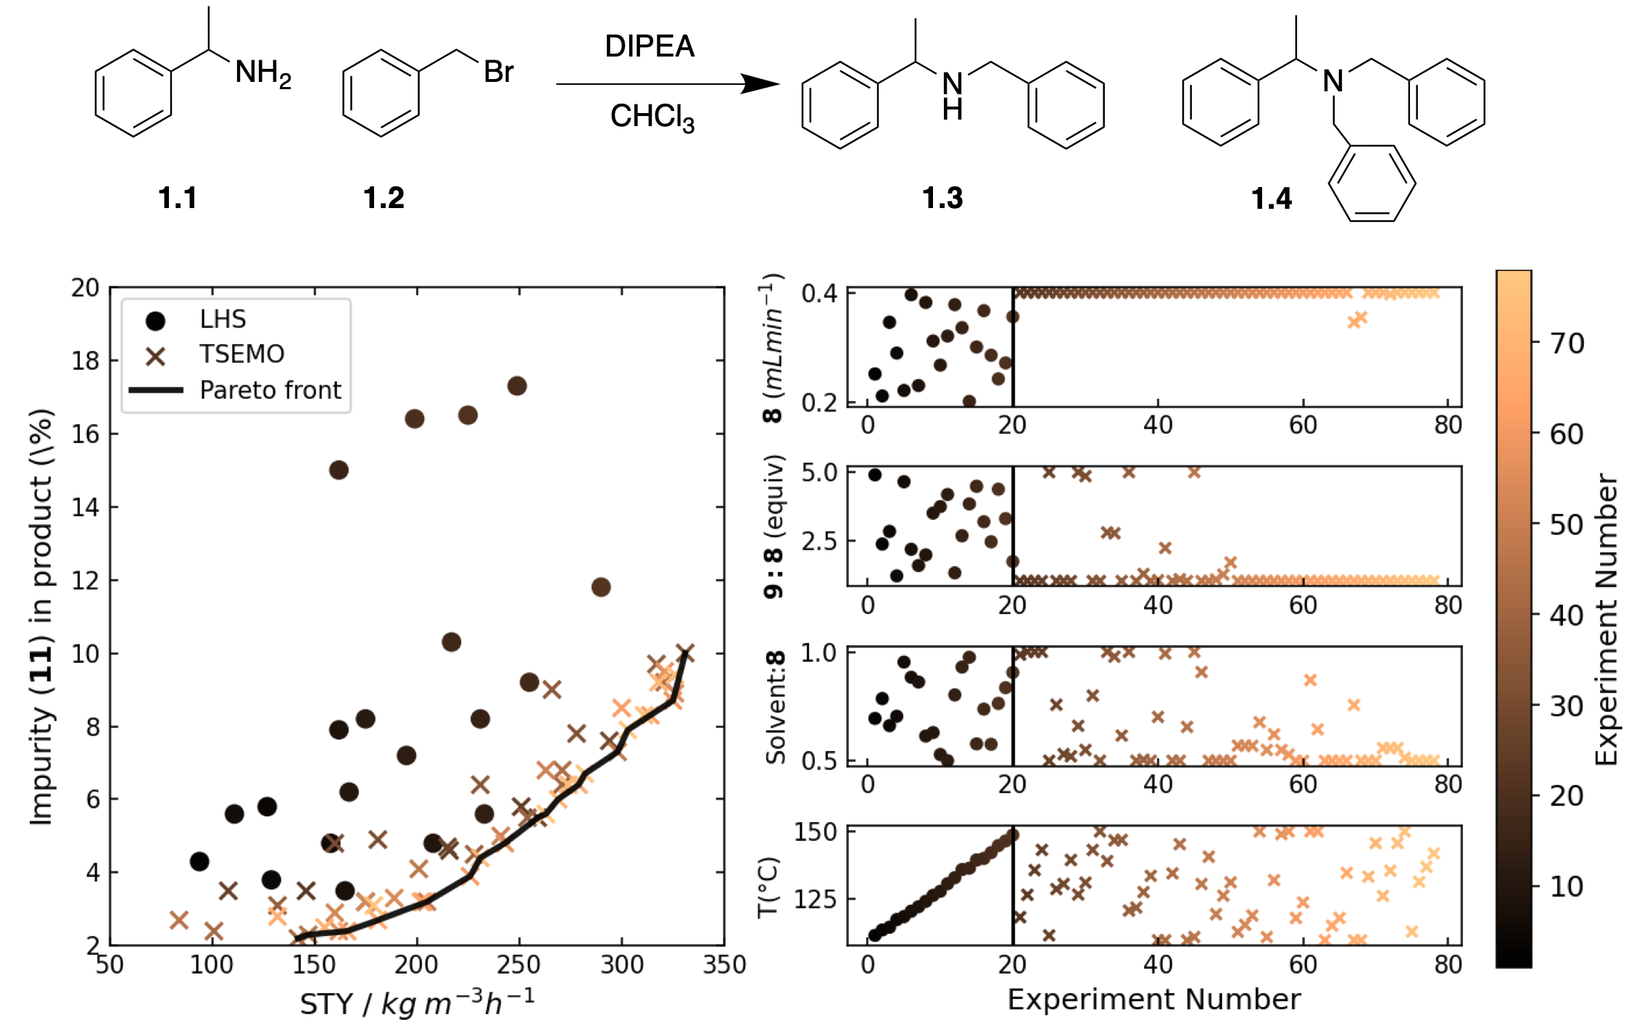
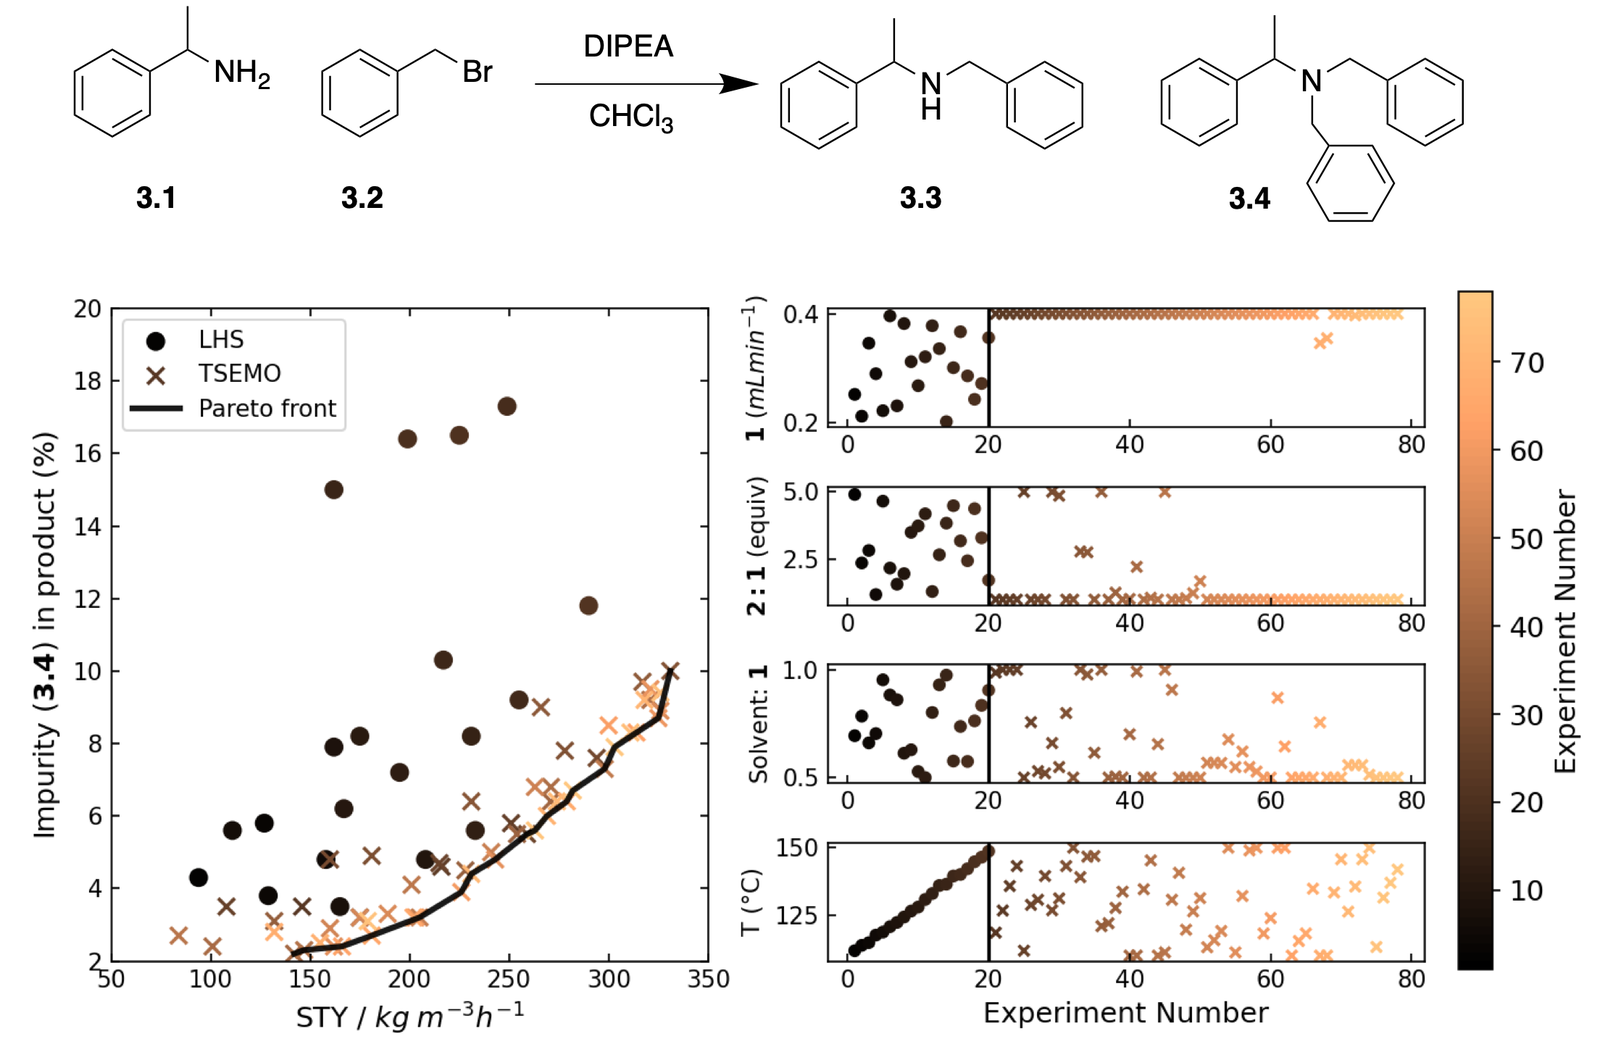
Updates from Overleaf

diff --git a/Chapters/Chapter06.tex b/Chapters/Chapter06.tex
@@ -141,8 +141,8 @@ where $\Delta P_i =\Delta P_{strip}$ for stages below feed stage and $\Delta P_i
         \hline
          $x_i$ &  Liquid composition of methanol on stage $i$ \\
          $y_i$ & Vapor composition of water on stage $i$\\
-         $L_i$ & Liquid flow on stage $i$  \\
-         $V_i$  & Vapor flow on stage $i$ \\
+         $L_i$ & Liquid flow leaving stage $i$  \\
+         $V_i$  & Vapor flow leaving stage $i$ \\
          $T_i$  & Temperature on stage $i$ \\
          $T_i$  & Holdup on stage $i$ \\
          \hline
@@ -169,21 +169,17 @@ Note that the feed stage and the stage above the feed stage are treated separate
 
 where $q_i$ is the liquid fraction of the feed stream.
 
-The material balance for the sump:
+The reboiler and sump are lumped into into one stage. 
 
 \begin{equation}
-    \frac{dn_1}{dt} = L_2 - L_1 + V_0 - V_1
+    \frac{dn_1}{dt} =  L_1 - V_0 - B
 \end{equation}
 
-I assume that the holdup in the thermosyphon reboiler is constant over time, and that all liquid flowing into the reboiler is vaporized. Therefore, the liquid flow into the reboiler is equal to the vapor flow out of the reboiler $V_0$, resulting in the following balance at the bottom of the sump:
-\begin{equation}
-    L_0 = V_0 + B
-\end{equation}
 
 The condenser and reflux drum are lumped and consider as one unit.
 
 \begin{equation}
-    \frac{dn_{N+2}}{dt} = V_{N+1}-(L_{N+2} + D)    
+    \frac{dn_{N+1}}{dt} = V_{N+1}-(L_{N+1} + D)    
 \end{equation}
 
 
@@ -208,21 +204,15 @@ The  feed stage and the stage above the feed stage are treated separately:
 \end{split}
 \end{equation}
 
-Given the previously stated assumption of a total reboiler, the composition of the liquid and vapor in the reboiler are the same:
-
-\begin{equation}
-    x_0 = y_0
-\end{equation}
-
 The component balance around the sump is as follows:
 
 \begin{equation}
-    \frac{d(x_{0} n_{0})}{dt} = L_2 x_2 - L_1 x_1 + V_0 y_0 - V_1 y_1
+    \frac{d(x_{0} n_{0})}{dt} = L_1 x_1 - (B + V_0) x_0 
 \end{equation}
 
 The component balance around the condenser is as follows:
 \begin{equation}
-    \frac{d(x_{N+2} n_{N+2})}{dt}  = V_{N+1} y_{N+1} - x_{N+2} (L_{N+2} + D)
+    \frac{d(x_{N+1} n_{N+1})}{dt}  = V_{N+1} y_{N+1} - x_{N+1} (L_{N+1} + D)
 \end{equation}
 
 \subsubsection{Energy balances}\label{sec:energy_balances}
@@ -231,7 +221,7 @@ In calculating energy balances, I assume that vapor holdup is negligible and the
 
 \begin{equation}
 \begin{split}
-    \frac{d(n_ih^L_i)}{dt} = h^L_{i+1}L_{i+1}-h^L_iL_i+h^V_{i-1}V_{i-1}-h^V_iV_i + Q_i  \\ \forall i=1 \dots N_F-1, N_F+2 \dots N+1
+    \frac{d(n_ih^L_i)}{dt} = h^L_{i+1}L_{i+1}-h^L_iL_i+h^V_{i-1}V_{i-1}-h^V_iV_i \\ \forall i=1 \dots N_F-1, N_F+2 \dots N+1
 \end{split}
 \end{equation}
 
@@ -250,29 +240,25 @@ For the feed stage and the stage above the feed stage:
 \end{split}
 \end{equation}
 
- The energy balances for the reboiler and sump respectively are:
+ The energy balances for the sump is
 
 \begin{equation}
-    \frac{d(n_0h^L_0)}{dt} = V_0(h^L_{1} - h^V_0) + Q_0
-\end{equation}
-
-\begin{equation}
-    \frac{d(n_1h^L_1)}{dt} = L_2 h^L_2 - L_1 h^L_1 + V_0 h^V_0 - L_1 h^L_1 + Q_1  
+    \frac{d(n_0h^L_0)}{dt} = L_1 h^L_1 - (V_0 + B) h^L_0 + Q_0
 \end{equation}
 
 The energy balance for the condenser is as follows:
 
 \begin{equation}
-    \frac{d(n_{N+2}h^L_{N+2})}{dt} = h^V_{N+1} V_{N+1}-h^L_{N+2}(L_{N+2} + D) + Q_{N+2}
+    \frac{d(n_{N+1}h^L_{N+1})}{dt} = h^V_{N+1} V_{N+1}-h^L_{N+1}(L_{N+1} + D) + Q_{N+1}
 \end{equation}
 
 Additionally, a heat exchanger subcools the liquid from the condenser:
 
 \begin{equation}
-    n_{subcool}\frac{d h^L_{reflux}}{dt} = L_{N+2}(h^L_{N+2} - h^L_{reflux}) + Q_{subcool}
+    n_{subcool}\frac{d h^L_{reflux}}{dt} = L_{N+1}(h^L_{N+1} - h^L_{reflux}) + Q_{subcool}
 \end{equation}
 
-For liquid enthalpy $h^{L,c}$ of each component, take a mole fraction weighted average of the specific enthalpies calculated by integrating a constant heat capacity from a reference temperature $T_{ref}$ of normal boiling point of each component $c$. Data is taken from Table 2-72 of Perry’s Chemical Engineering Handbook \cite{Perrys2018}.
+For liquid enthalpy $h^{L,c}$ of each component, take a mole fraction weighted average of the specific enthalpies calculated by integrating a constant heat capacity from a reference temperature $T_{ref}$ of normal boiling point of each component $c$. Data is taken from Table 2-72 of Perry’s Chemical Engineer's Handbook \cite{Perrys2018}.
 
 \begin{equation}
     h^L(T_i, P_i, x_i) = x_ih^{L,0}(T_i,P_i) + (1-x_i)h^{L,1}(T_i,P_i)
@@ -288,22 +274,25 @@ For liquid enthalpy $h^{L,c}$ of each component, take a mole fraction weighted a
 
 The enthalpy of the liquid on stage $i$ is then:
 \begin{equation}
-    h^L_i := h^L(T_i, P_i,x_i)
+    h^L_i := h^L(T_i, P_i,x_i) \;\; \forall i = 1 \dots N_F-1, N_F+1 \dots N+1
 \end{equation}
 
 \begin{equation}
     h^L_{N_F} := h^L(T_{N_F}, P_{N_F},x_{N_F})
 \end{equation}
 
-For vapor enthalpy,  a similar approach is taken. Data for heat of vaporization and vapor enthalpy is taken from Table 2-169 and Table 2-102 respectively in Perry’s Chemical Engineering Handbook \cite{Perrys2018}.
+For vapor enthalpy,  a similar approach is taken. Data for heat of vaporization, vapor enthalpy and heat capacity are taken from Table 2-169, Table 2-102, Table 2-27 respectively in Perry’s Chemical Engineer's Handbook \cite{Perrys2018}.
 
 \begin{equation}
     h^V(T_i, P_i, x_i) = x_i h^{V,0}(T_i,P_i) + (1-x_i) h^{V,1}(T_i,P_i)
 \end{equation}
 
+\begin{equation}
+    h^{V,c}(T,P) = \int_{T_{ref}}^T C_{p,V}^c(\tau)d\tau 
+\end{equation}
 
 \begin{equation}
-    h^{V,c}(T,P) = H^{vap, c}(T_{ref}) + 4R(T-T_{ref})
+    C_{p,V}^c(T) = \sum_{k=0}^5 c_v^kT^k 
 \end{equation}
 
 \begin{equation}
@@ -334,11 +323,15 @@ I use the NRTL model for calculating the activity coefficients, though a variety
 \end{table}
 
 \begin{equation}
-    \ln \gamma_{i,0} = x_2^2\biggl [\tau_{21} \biggl (\frac{G_{21}}{x_1+x_2G_{21}}\biggr)^2 + \frac{\tau_{12}G_{12}}{(x_2 + x_1 G_{12})^2} \biggr ]
+    \ln \gamma_{1} = x_2^2\biggl [\tau_{21} \biggl (\frac{G_{21}}{x_1+x_2G_{21}}\biggr)^2 + \frac{\tau_{12}G_{12}}{(x_2 + x_1 G_{12})^2} \biggr ]
 \end{equation}
 
 \begin{equation}
-     \ln \gamma_{i,1} = x_1^2\biggl [\tau_{12} \biggl (\frac{G_{12}}{x_2+x_1G_{12}}\biggr)^2 + \frac{\tau_{21}G_{21}}{(x_1 + x_2 G_{21})^2} \biggr ]   
+     \ln \gamma_{2} = x_1^2\biggl [\tau_{12} \biggl (\frac{G_{12}}{x_2+x_1G_{12}}\biggr)^2 + \frac{\tau_{21}G_{21}}{(x_1 + x_2 G_{21})^2} \biggr ]   
+\end{equation}
+
+\begin{equation}
+    G_{ij} = e^{-\alpha_{ij} \tau_{ij}}
 \end{equation}
 
 \subsubsection{Pressure balance}
@@ -346,10 +339,10 @@ I use the NRTL model for calculating the activity coefficients, though a variety
 Vapor pressure is calculated using Antoine’s equation with coefficients taken from NIST. 
 
 \begin{equation}
-    \log P_{i,k}^{sat}(T_i) = A_k + \frac{B_k}{T_i + C_k}
+    \log P^{sat}(T_i) = A + \frac{B}{T_i + C}
 \end{equation}
 
-For trays ($i=1\dots N$), modified Raoult’s Law is used with Murphree efficiencies to account for deviations from equilibrium.
+For trays ($i=1\dots N$), modified Raoult’s Law is used with Murphree efficiencies $\alpha$ to account for deviations from equilibrium.
 
 \begin{equation}
     y_i = \alpha_i\frac{x_i\gamma_i(T_i, P_i, x_i)P_0^{sat}(T_i)}{P} + (1-\alpha_i)y_{i-1}
@@ -358,12 +351,12 @@ For trays ($i=1\dots N$), modified Raoult’s Law is used with Murphree efficien
 This leads to the bubble pressure balance:
 
 \begin{equation}
-    P = x_i\gamma_{i,0}(T_i, P_i, x_i)P^{sat}_{i,0} + (1-x_i)\gamma_{i,1}(T_i, P_i, (1-x_i))P^{sat}_{i,1}
+    P = x_i\gamma_{i,1}(T_i, P_i, x_i)P^{sat}_{i,0} + (1-x_i)\gamma_{i,2}(T_i, P_i, (1-x_i))P^{sat}_{i,1}
 \end{equation}
 
 \subsubsection{Francis weir formula}
 
-The Francis weir formula is used for dynamic simulations to calculate liquid flow over the weir given a certain holdup. As shown in Figure \ref{fig:weir}, $h_i^{ow}$ from the the clear liquid to the weir. This can calculated by taking the difference between the actual volume in the weir and a reference volume $n^v_{ref}$ (i.e., the volume if there was no crest) given the cross sectional area.
+The Francis weir formula is used for dynamic simulations to calculate liquid flow over the weir given a certain holdup. As shown in Figure \ref{fig:weir}, $h_i^{ow}$ from the clear liquid to the weir. This can be calculated by taking the difference between the actual volume in the weir and a reference volume $n^v_{ref}$ (i.e., the volume if there was no crest) given the cross sectional area.
 
 \begin{figure}
     \centering
@@ -384,7 +377,7 @@ The Francis weir formula for calculating flow over the weir comes from the Berno
 \end{equation}
 
 \begin{equation}
-    L_i^{vol} = \int_0^{h_i^{ow}} v(y)wdy = w\sqrt{2g}\int_0^{h_i^{ow}} y^{1/2}dy = \frac{2}{3}w\sqrt{2g}(h_i^{ow})^{3/2} 
+    L_i^{vol} = \int_0^{h_i^{ow}} v(h)wdh = w\sqrt{2g}\int_0^{h_i^{ow}} h^{1/2}dh = \frac{2}{3}w\sqrt{2g}(h_i^{ow})^{3/2} 
 \end{equation}
 
 
@@ -413,7 +406,7 @@ Since the simulation is in molar flowrates, volumetric flowrates should be conve
 \end{equation}
 
 
-where $\rho(T_i,x_i)$ is the volumetric density, calculated by a weighted average of the volumetric density of both components. Volumetric density come from Perry’s Chemical Engineering Handbook \cite{Perrys2018}.
+where $\rho(T_i,x_i)$ is the volumetric density, calculated by a weighted average of the volumetric density of both components. Volumetric density come from Perry’s Chemical Engineer's Handbook \cite{Perrys2018}.
 
 \begin{equation}
     \rho(T_i, x_i) = x_i\rho^0(T_i, x_i) + (1-x_i)\rho^1(T_i, x_i)

diff --git a/Chapters/Chapter04.tex b/Chapters/Chapter04.tex
@@ -128,7 +128,7 @@ These simulated case studies suggest that the use of MTBO is often beneficial, p
 
 \subsection{Experimental Case Studies: C-H Activation}
 
-The reaction class that we targeted for our experimental MTBO study was the palladium-catalyzed C-H activation reaction, reported by Hennessy and Buchwald, yielding pharmaceutically relevant oxindoles (\textbf{16}) from their corresponding chloroacetanilides (\textbf{15}), as shown in Figure \ref{fig:ch_activation}. Each case study is highlighted if it is forming a potential bioactive fragment or active pharmaceutical ingredient (API) intermediate. The rationale behind these studies is two-fold: firstly, these oxindoles are closely related to many known bioactive molecules, and secondly, when considering optimal growth vectors for bioactive molecular fragments to grow into more potent drug candidates, the most beneficial transformations are often exploiting C--H bonds on the fragment to form new C--C bonds. Therefore, using MTBO, we aimed to rapidly optimize several transformations using different starting materials with unique functionalities to yield structurally diverse oxindole products by forming valuable sp\textsuperscript{2}-sp\textsuperscript{3} C--C bonds. Then, for future optimisation campaigns requiring oxindole syntheses, this model can be employed to expedite reaction optimisation and process development for new substrates.
+The reaction class that we targeted for our experimental MTBO study was the palladium-catalyzed C-H activation reaction, reported by Hennessy and Buchwald, yielding pharmaceutically relevant oxindoles  from their corresponding chloroacetanilides, as shown in Figure \ref{fig:ch_activation}. Each case study is highlighted if it is forming a potential bioactive fragment or active pharmaceutical ingredient (API) intermediate. The rationale behind these studies is two-fold: firstly, these oxindoles are closely related to many known bioactive molecules, and secondly, when considering optimal growth vectors for bioactive molecular fragments to grow into more potent drug candidates, the most beneficial transformations are often exploiting C--H bonds on the fragment to form new C--C bonds. Therefore, using MTBO, we aimed to rapidly optimize several transformations using different starting materials with unique functionalities to yield structurally diverse oxindole products by forming valuable sp\textsuperscript{2}-sp\textsuperscript{3} C--C bonds. Then, for future optimisation campaigns requiring oxindole syntheses, this model can be employed to expedite reaction optimisation and process development for new substrates.
 
 \begin{figure}
     \centering
@@ -137,7 +137,7 @@ The reaction class that we targeted for our experimental MTBO study was the pall
     \label{fig:ch_activation}
 \end{figure}
 
-For each case study, we optimized the continuous parameters: residence time (5 - 60 minutes), reaction temperature (50 - 150 °C) and catalyst concentration (1 - 10 mol\%), and the categorical parameters: solvent (toluene, DMA, acetonitrile, DMSO, NMP) and ligand (JohnPhos, SPhos, XPhos, DPEPhos), for the maximum product yield output. While it is possible to represent these categorical variables in numerous ways, the simplest representation (one-hot encoding) proved sufficient data to learn from. The first case study, utilized only single-task Bayesian optimisation (STBO) as there is no previous data to leverage model understanding for MTBO. The starting material, \textbf{3.1}, reacts to form the molecular fragment (with potential growth vectors for further functionalization), \textbf{3.2}. The optimisation was initialized using 16 training experiments before the algorithm began to suggest experimental conditions. We subsequently optimized case study two, three and four with the experimental data from the previous case studies as separate tasks.
+For each case study, we optimized the continuous parameters: residence time (5 - 60 minutes), reaction temperature (50 - 150 °C) and catalyst concentration (1 - 10 mol\%), and the categorical parameters: solvent (toluene, DMA, acetonitrile, DMSO, NMP) and ligand (JohnPhos, SPhos, XPhos, DPEPhos), for the maximum product yield output. While it is possible to represent these categorical variables in numerous ways, the simplest representation (one-hot encoding) proved sufficient data to learn from. The first case study, utilized only single-task Bayesian optimisation (STBO) as there is no previous data to leverage model understanding for MTBO. The starting material reacts to form the molecular fragment (with potential growth vectors for further functionalization). The optimisation was initialized using 16 training experiments before the algorithm began to suggest experimental conditions. We subsequently optimized case study two, three and four with the experimental data from the previous case studies as separate tasks.
 
 For each of these consecutive C-H activation case studies, iteratively fewer experiments were (generally) necessary to achieve an optimal set of reaction conditions for the highest process yields - this is illustrated in Figure \ref{fig:optimisation_curves}. This is because there was an increasing data-density that detailed optimal areas of parameter space for similar tasks (reactions of similar substrates), allowing for a progressively more efficient optimisation workflow. In each case study, only minimal amounts (for our specific reaction system) of starting materials were consumed to find optimal reaction conditions, which is very important in early-stage medicinal chemistry development applications when preservation of precious starting materials and speed of optimisation are paramount. Other common optimisation strategies, such as traditional one-factor at a time (OFAT) approaches, may provide modest process improvements in these scenarios but have been shown repeatedly to underperform when compared with statistical-based techniques. This methodology has therefore proven to be effective in real-world pharmaceutical applications for material- and cost-efficiency, with the bonus of full automation that allows scientists to use their human resource to focus on other areas of chemical development. Although these experimental studies focused on C--C bond formation by targeting C--H activation, these techniques can be utilized for other transformations to ultimately accelerate optimisation.
 

diff --git a/Chapters/Chapter03.tex b/Chapters/Chapter03.tex
@@ -116,7 +116,7 @@ In the subsequent sections, I describe the benchmarks and strategies used in thi
 
 \subsubsection{Mechanistic Benchmarks}
 
-The $S_NAr$ benchmark is a reaction between 2,4-difluoronitrobenzene \textbf{1.5} and pyrrolidine \textbf{1.6} to afford the desired products \textbf{1.7} with \textbf{1.8} and \textbf{1.9} as undesired side-products \cite{Hone2017}. Here, the aim is to optimise the reaction in a virtual self-optimising flow setup, as shown in Figure \ref{fig:snar}a. Formally, the optimisation problem can be stated as simultaneously maximising space time yield ($STY$) and minimizing the E-factor ($E$). The decision variables (i.e,. the reaction conditions) are the temperature (40-120 $^{\circ}$C), residence time (0.5-2 minutes), equivalents of \textbf{1.6} (1.0-5.0) and concentration of difluoronitrobenzene (0.1-0.5M). As noted in Equation \ref{snar_formal}, this is achieved by adjusting the residence time $\tau$, inlet concentration of \textbf{1.5} $C_{3.5,i}$, equivalents of pyrrolidine $n_{3.6}$, and reactor temperature, $T$.
+The $S_NAr$ benchmark is a reaction between 2,4-difluoronitrobenzene \textbf{3.5} and pyrrolidine \textbf{3.6} to afford the desired products \textbf{3.7} with \textbf{3.8} and \textbf{3.9} as undesired side-products \cite{Hone2017}. Here, the aim is to optimise the reaction in a virtual self-optimising flow setup, as shown in Figure \ref{fig:snar}a. Formally, the optimisation problem can be stated as simultaneously maximising space time yield ($STY$) and minimizing the E-factor ($E$). The decision variables (i.e,. the reaction conditions) are the temperature (40-120 $^{\circ}$C), residence time (0.5-2 minutes), equivalents of \textbf{3.6} (1.0-5.0) and concentration of difluoronitrobenzene (0.1-0.5M). As noted in Equation \ref{snar_formal}, this is achieved by adjusting the residence time $\tau$, inlet concentration of \textbf{1.5} $C_{3.5,i}$, equivalents of pyrrolidine $n_{3.6}$, and reactor temperature, $T$.
 \begin{equation}
 	\label{snar_formal}
 	\begin{gathered}
@@ -148,7 +148,7 @@ I use hypervolume as a performance metric, which measures the volume in any numb
 \begin{figure}
     \centering
     \includegraphics[width=\textwidth]{gfx/Chapter03/snar_benchmark_scheme_thesis.png}
-    \caption{Scheme showing the reaction being optimized for $S_NAr$ benchmark. This is a four dimensional optimisation of a  S\textsubscript{N}Ar reaction between difluoronitrobenzene (\textbf{1.5}) and pyrrollidine (\textbf{1.6}) \cite{Hone2017}.}
+    \caption{Scheme showing the reaction being optimized for $S_NAr$ benchmark. This is a four dimensional optimisation of a  S\textsubscript{N}Ar reaction between difluoronitrobenzene (\textbf{3.5}) and pyrrollidine (\textbf{3.6}) \cite{Hone2017}.}
     \label{fig:snar_benchmark}
 \end{figure}
 
@@ -165,7 +165,7 @@ I now show the equations used to calculate the objective values for given a set 
 	   & = \frac{Q_{tot}\rho_{eth} + \frac{1}{1000}\sum_{n=1, i \neq 3}^5 M_nC_nQ_{tot}}{\frac{1}{1000}M_{3.7}C_{3.7}Q_{tot}}		
 	\end{split}
 \end{equation}
-where $M_n$ is the molar weight in g/mol of species $n$; $Q_{eth}$ and $\rho_{eth}$ are the volumetric flowrate the density of ethanol respectively; and $Q_{tot}$ is the total volumetric flowrate. The volume of the reactor is assumed to be 5 mL. The inlet concentration of \textbf{2} is calculated:
+where $M_n$ is the molar weight in g/mol of species $n$; $Q_{eth}$ and $\rho_{eth}$ are the volumetric flowrate the density of ethanol respectively; and $Q_{tot}$ is the total volumetric flowrate. The volume of the reactor is assumed to be 5 mL. The inlet concentration of \textbf{3.6} is calculated:
 \begin{equation}
     C_{3.6,i} = n_{3.6} C_{3.5,i}
 \end{equation}
@@ -176,7 +176,7 @@ is the equivalents of pyrrolidine. Since the total flowrate $Q_{tot}$ is $\frac{
 \begin{equation}
     Q_2 = \frac{C_{3.6,i}}{C_{2,0}}Q_{tot}
 \end{equation}
-where $C_{1,0}=1 M$ and $C_{2,0}=2 M$ are the reservoir concentrations of \textbf{1} and \textbf{2} respectively. To calculate the outlet concentrations of the products, the standard equation for a constant density plug flow reactor is used:
+where $C_{1,0}=1 M$ and $C_{2,0}=2 M$ are the reservoir concentrations of \textbf{3.5} and \textbf{3.6  } respectively. To calculate the outlet concentrations of the products, the standard equation for a constant density plug flow reactor is used:
 \begin{equation}
 	\label{pfr}
 	d\tau = \frac{dC_n}{- r_n}

diff --git a/Chapters/Chapter02.tex b/Chapters/Chapter02.tex
@@ -191,7 +191,7 @@ Most transfer learning work for molecular property prediction centers around pre
 
 The self-supervised approaches generally try to improve the representations learned by MPNNs using unlabeled data. Since there are large databases of existing molecules (e.g., ZINC with 1B+ molecules \cite{Irwin2020}), a large-scale pre-training task similar to those used for language modeling can be constructed. For example, Hu et al. masked missing atom nodes from molecular graphs and created a task of predicting the missing nodes \cite{Hu2020Pretrain}. By combining this pre-training task with a supervised pre-training on molecular properties, they obtained state-of-the-art results at the time of publication on some benchmark tasks. While self-supervised approaches are promising, they currently not result in significant performance improvements without supervised pretraining \cite{Sun2022}.
 
-Supervised approaches usually train a full network on previous data, fix the message passing encoder and only train the feed forward network on subsequent data. For example, Vermeire et al. used such an approach to improve predictions of solvation free energies by first pretraining on a large database of calculations from the thermodynamic programme COSMO-RS and subsequently fine-tuning on experimental data \cite{Vermeire2021, Vermeire2022}. They found that this combination of pretraining and fine-tuning outperformed using the COSMO-RS or experimental dataset individually. Recently, this approach has also been applied to predicting glass transition temperature of polymers \cite{Volgin2022}, vapor pressure of energetic materials \cite{Lansford2023}, and several thermochemistry properties \cite{Ureel2023}. I explore pretraining of MPNNs in Part III.
+Supervised approaches usually train a full network on previous data, fix the message passing encoder and only train the feed forward network on subsequent data. For example, Vermeire et al. used such an approach to improve predictions of solvation free energies by first pretraining on a large database of calculations from the thermodynamic programme COSMO-RS and subsequently fine-tuning on experimental data \cite{Vermeire2021, Vermeire2022}. They found that this combination of pretraining and fine-tuning outperformed using the COSMO-RS or experimental dataset individually. Recently, this approach has also been applied to predicting glass transition temperature of polymers \cite{Volgin2022}, fuel properties \cite{Larsson2023}, vapor pressure of energetic materials \cite{Lansford2023}, and several thermochemistry properties \cite{Ureel2023}. I explore pretraining of MPNNs in Part III.
 
 \section{Conclusions}
 

diff --git a/ClassicThesis.tex b/ClassicThesis.tex
@@ -39,7 +39,7 @@
 \input{classicthesis-config}
 \usepackage{rotating}
 
-% \includeonly{Chapters/Chapter07}
+% \includeonly{Chapters/Chapter04}
 % \usepackage{subfigure}
 % \usepackage{subcaption}
 \usepackage{amssymb}
@@ -102,6 +102,7 @@
 \include{Chapters/Chapter07}
 \include{Chapters/Chapter08}
 
+\part{Conclusion}
 \include{Chapters/Chapter09}
 
 %********************************************************************
